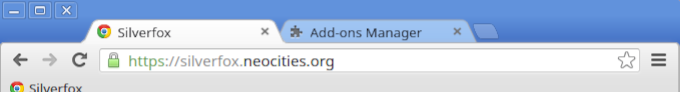
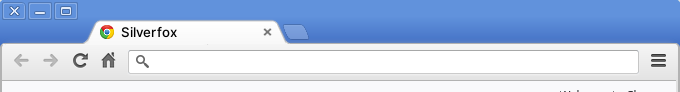
Hotfix for the recent hotfix

diff --git a/theme/chrome/css/UI/titlebuttons.css b/theme/chrome/css/UI/titlebuttons.css
@@ -618,26 +618,26 @@
   }
   
   
-  /* Linux */
+/* Linux */
   
-  @media (-moz-platform: linux) {
+@media (-moz-platform: linux) {
     
-  @supports not (-moz-bool-pref("silverfox.forceWindowsStyling")) {   
+  @supports not (-moz-bool-pref("silverfox.forceWindowsStyling")) {
     .titlebar-buttonbox {
       appearance: none !important; /* Prevents ANY influencing of margins */
       gap: 2px !important;
     }
-    :root:not([sizemode="normal"]) .titlebar-buttonbox {
-      margin-top: -4px !important;
+    :root[sizemode="maximized"] .titlebar-buttonbox {
+      margin-top: -5px !important;
     }
-    :root[sizemode="normal"] .titlebar-buttonbox {
-      margin-top: -35px !important;
+    :root:not([sizemode="maximized"]) .titlebar-buttonbox {
+      margin-top: -36px !important;
     }
     @media not (-moz-gtk-csd-reversed-placement) { .titlebar-buttonbox {
-      margin-right: max(6px, calc(env(-moz-gtk-csd-titlebar-radius) - 1px)) !important;
+      margin-right: max(3px, calc(env(-moz-gtk-csd-titlebar-radius) - 1px)) !important;
     }}
     @media (-moz-gtk-csd-reversed-placement) { .titlebar-buttonbox {
-      margin-left: max(6px, calc(env(-moz-gtk-csd-titlebar-radius) - 2px)) !important;
+      margin-left: max(3px, calc(env(-moz-gtk-csd-titlebar-radius) - 1px)) !important;
     }}
     .titlebar-close,
     .titlebar-restore,
@@ -695,139 +695,139 @@
     }
   }
     
-/* Chrome OS */  
-@supports (-moz-bool-pref("silverfox.beChromeOS")) {
+  /* Chrome OS */
+  @supports (-moz-bool-pref("silverfox.beChromeOS")) {
+    .titlebar-buttonbox {
+      gap: 0 !important;
+    }
+    :root[sizemode="maximized"] .titlebar-buttonbox {
+        margin-top: -8px !important;
+    }
+    :root:not([sizemode="maximized"]) .titlebar-buttonbox {
+        margin-top: -13px !important;
+    }
 
-:root[sizemode="normal"] .titlebar-buttonbox-container {
-    margin-top: 20px !important;
-  }
-  
-  
-  .titlebar-buttonbox {
-    gap: 0 !important;
-  }
-  :root:not([sizemode="normal"]) .titlebar-buttonbox {
-      margin-top: 1px !important;
-  }
+    @media not (-moz-gtk-csd-reversed-placement) { .titlebar-buttonbox {
+      margin-right: 0 !important;
+    }}
+    @media (-moz-gtk-csd-reversed-placement) { .titlebar-buttonbox {
+      margin-left: 0 !important;
+    }}
 
-  @media not (-moz-gtk-csd-reversed-placement) { .titlebar-buttonbox {
-    margin-right: 0 !important;
-  }}
-  @media (-moz-gtk-csd-reversed-placement) { .titlebar-buttonbox {
-    margin-left: 0 !important;
-  }}
-
-  .titlebar-close,
-  .titlebar-restore,
-  .titlebar-min,
-  .titlebar-max {
+    .titlebar-close,
+    .titlebar-min,
+    .titlebar-max {
         height: 35px !important;
-  }
-  .titlebar-close,
-  .titlebar-restore,
-  .titlebar-min,
-  .titlebar-max {
+    }
+    :root[sizemode="maximized"] .titlebar-close,
+    .titlebar-restore,
+    :root[sizemode="maximized"] .titlebar-min {
+        height: 28px !important;
+    }
+    .titlebar-close,
+    .titlebar-restore,
+    .titlebar-min,
+    .titlebar-max {
         min-width: 35px !important;
         max-width: 35px !important;
-  }
+    }
 
-  /* Button borders */
-  :root:not([sizemode="maximized"]) .titlebar-button:not(:last-child) {
-    background-position: left !important;
-    max-width: 37px !important;
-    min-width: 37px !important;
-  }
-  :root:not([sizemode="maximized"]) .titlebar-button:not(:last-child)::before {
-    content: url(../../assets/images/topbar/chromeos/border_right.png) !important;
-    width: 37px !important;
-    height: 28px !important;
-    position: fixed !important;
-    top: 0 !important;
-  }
-  @media (-moz-gtk-csd-reversed-placement) {
+    /* Button borders */
     :root:not([sizemode="maximized"]) .titlebar-button:not(:last-child) {
-      background-position: right !important;
+      background-position: left !important;
+      max-width: 37px !important;
+      min-width: 37px !important;
     }
     :root:not([sizemode="maximized"]) .titlebar-button:not(:last-child)::before {
-      content: url(../../assets/images/topbar/chromeos/border_left.png) !important;
-      margin-left: -3px !important;
+      content: url(../../assets/images/topbar/chromeos/border_right.png) !important;
+      width: 37px !important;
+      position: fixed !important;
+      top: 0 !important;
     }
-  }
+    @media (-moz-gtk-csd-reversed-placement) {
+      :root:not([sizemode="maximized"]) .titlebar-button:not(:last-child) {
+        background-position: right !important;
+      }
+      :root:not([sizemode="maximized"]) .titlebar-button:not(:last-child)::before {
+        content: url(../../assets/images/topbar/chromeos/border_left.png) !important;
+        margin-left: -3px !important;
+      }
+    }
 
-  /* Maximised button-borders are different */
-  @media not (-moz-gtk-csd-reversed-placement) { :root[sizemode="maximized"] .titlebar-button:not(:last-child) {
-      border-right: 1px solid rgba(0, 0, 0, 0.17);
-  }}
-  @media (-moz-gtk-csd-reversed-placement) { :root[sizemode="maximized"] .titlebar-button:not(:last-child) {
-      border-left: 1px solid rgba(0, 0, 0, 0.17);
-  }}
+    /* Maximised button-borders are different */
+    @media not (-moz-gtk-csd-reversed-placement) { :root[sizemode="maximized"] .titlebar-button:not(:last-child) {
+        border-right: 1px solid rgba(0, 0, 0, 0.17);
+    }}
+    @media (-moz-gtk-csd-reversed-placement) { :root[sizemode="maximized"] .titlebar-button:not(:last-child) {
+        border-left: 1px solid rgba(0, 0, 0, 0.17);
+    }}
 
-  .titlebar-close {
-      background: url(../../assets/images/topbar/chromeos/close.png) !important;
-      background-repeat: no-repeat !important;
-  }
-  :root[sizemode="maximized"] .titlebar-close {
-      background: url(../../assets/images/topbar/chromeos/close_maximized.png) !important;
-  }
-  .titlebar-min {
-      background: url(../../assets/images/topbar/chromeos/minimize.png) !important;
-      background-repeat: no-repeat !important;
-  }
-  :root[sizemode="maximized"] .titlebar-min {
-      background: url(../../assets/images/topbar/chromeos/minimize_maximized.png) !important;
-  }
-  .titlebar-max {
-      background: url(../../assets/images/topbar/chromeos/maximize.png) !important;
-      background-repeat: no-repeat !important;
-  }
-  .titlebar-restore {
-      background: url(../../assets/images/topbar/chromeos/restore.png) !important;
-  }
+    .titlebar-close {
+        background: url(../../assets/images/topbar/chromeos/close.png) !important;
+        background-repeat: no-repeat !important;
+    }
+    :root[sizemode="maximized"] .titlebar-close {
+        background: url(../../assets/images/topbar/chromeos/close_maximized.png) !important;
+    }
+    .titlebar-min {
+        background: url(../../assets/images/topbar/chromeos/minimize.png) !important;
+        background-repeat: no-repeat !important;
+    }
+    :root[sizemode="maximized"] .titlebar-min {
+        background: url(../../assets/images/topbar/chromeos/minimize_maximized.png) !important;
+    }
+    .titlebar-max {
+        background: url(../../assets/images/topbar/chromeos/maximize.png) !important;
+        background-repeat: no-repeat !important;
+    }
+    .titlebar-restore {
+        background: url(../../assets/images/topbar/chromeos/restore.png) !important;
+    }
 
-  /* Hovers */
-  .titlebar-close:hover {
-      background: url(../../assets/images/topbar/chromeos/close_hover.png) !important;
-      background-repeat: no-repeat !important;
-  }
-  :root[sizemode="maximized"] .titlebar-close:hover {
-      background: url(../../assets/images/topbar/chromeos/close_maximized_hover.png) !important;
-  }
-  .titlebar-min:hover {
-      background: url(../../assets/images/topbar/chromeos/minimize_hover.png) !important;
-      background-repeat: no-repeat !important;
-  }
-  :root[sizemode="maximized"] .titlebar-min:hover {
-      background: url(../../assets/images/topbar/chromeos/minimize_maximized_hover.png) !important;
-  }
-  .titlebar-max:hover {
-      background: url(../../assets/images/topbar/chromeos/maximize_hover.png) !important;
-      background-repeat: no-repeat !important;
-  }
-  .titlebar-restore:hover {
-      background: url(../../assets/images/topbar/chromeos/restore_hover.png) !important;
-  }
+    /* Hovers */
+    .titlebar-close:hover {
+        background: url(../../assets/images/topbar/chromeos/close_hover.png) !important;
+        background-repeat: no-repeat !important;
+    }
+    :root[sizemode="maximized"] .titlebar-close:hover {
+        background: url(../../assets/images/topbar/chromeos/close_maximized_hover.png) !important;
+    }
+    .titlebar-min:hover {
+        background: url(../../assets/images/topbar/chromeos/minimize_hover.png) !important;
+        background-repeat: no-repeat !important;
+    }
+    :root[sizemode="maximized"] .titlebar-min:hover {
+        background: url(../../assets/images/topbar/chromeos/minimize_maximized_hover.png) !important;
+    }
+    .titlebar-max:hover {
+        background: url(../../assets/images/topbar/chromeos/maximize_hover.png) !important;
+        background-repeat: no-repeat !important;
+    }
+    .titlebar-restore:hover {
+        background: url(../../assets/images/topbar/chromeos/restore_hover.png) !important;
+    }
 
-  /* Pressed */
-  .titlebar-close:hover:active {
-      background: url(../../assets/images/topbar/chromeos/close_pressed.png) !important;
-      background-repeat: no-repeat !important;
-  }
-  :root[sizemode="maximized"] .titlebar-close:hover:active {
-      background: url(../../assets/images/topbar/chromeos/close_maximized_pressed.png) !important;
-  }
-  .titlebar-min:hover:active {
-      background: url(../../assets/images/topbar/chromeos/minimize_pressed.png) !important;
-      background-repeat: no-repeat !important;
-  }
-  :root[sizemode="maximized"] .titlebar-min:hover:active {
-      background: url(../../assets/images/topbar/chromeos/minimize_maximized_pressed.png) !important;
-  }
-  .titlebar-max:hover:active {
-      background: url(../../assets/images/topbar/chromeos/maximize_pressed.png) !important;
-      background-repeat: no-repeat !important;
-  }
-  .titlebar-restore:hover:active {
-      background: url(../../assets/images/topbar/chromeos/restore_pressed.png) !important;
-  }
+    /* Pressed */
+    .titlebar-close:hover:active {
+        background: url(../../assets/images/topbar/chromeos/close_pressed.png) !important;
+        background-repeat: no-repeat !important;
+    }
+    :root[sizemode="maximized"] .titlebar-close:hover:active {
+        background: url(../../assets/images/topbar/chromeos/close_maximized_pressed.png) !important;
+    }
+    .titlebar-min:hover:active {
+        background: url(../../assets/images/topbar/chromeos/minimize_pressed.png) !important;
+        background-repeat: no-repeat !important;
+    }
+    :root[sizemode="maximized"] .titlebar-min:hover:active {
+        background: url(../../assets/images/topbar/chromeos/minimize_maximized_pressed.png) !important;
+    }
+    .titlebar-max:hover:active {
+        background: url(../../assets/images/topbar/chromeos/maximize_pressed.png) !important;
+        background-repeat: no-repeat !important;
+    }
+    .titlebar-restore:hover:active {
+        background: url(../../assets/images/topbar/chromeos/restore_pressed.png) !important;
+    }
   }
 }

diff --git a/theme/chrome/css/UI/tabstoolbar.css b/theme/chrome/css/UI/tabstoolbar.css
@@ -12,26 +12,33 @@
 
 /* Remove the gap for Linux if native titlebars are enabled */
 @media (-moz-platform: linux) {
-:root:not([tabsintitlebar="true"]) #TabsToolbar {
-  margin-top: -4px !important;
-}
-  
-@supports (-moz-bool-pref("silverfox.beChromeOS")) {
-  :root:not([sizemode="maximized"]) #TabsToolbar {
-    margin-top: 7px !important;
+  :root:not([tabsintitlebar="true"]) #TabsToolbar {
+    margin-top: -4px !important;
   }
-  :root[sizemode="maximized"] #TabsToolbar {
-    margin-top: -6px !important;
+  /* Additionally, enforce Chrome OS's larger gap */
+  @supports (-moz-bool-pref("silverfox.beChromeOS")) {
+    :root[sizemode="normal"] #TabsToolbar {
+      margin-top: 6px !important;
+    }
   }
 }
-} 
-
-
 
 /* Remove the gap when Firefox is fullscreen */
 :root:not([sizemode="normal"]) #TabsToolbar {
   margin-top: -5px;
   margin-bottom: 0px !important;
+}
+/* ...unless we're on Linux. */
+@media (-moz-platform: linux) {
+  :root:not([sizemode="normal"]) #TabsToolbar {
+    margin-top: -4px !important;
+  }
+  /* Chrome OS has a larger gap */
+  @supports (-moz-bool-pref("silverfox.beChromeOS")) {
+    :root:not([sizemode="normal"]) #TabsToolbar {
+      margin-top: 0 !important;
+    }
+  }
 }
 
 /* Remove All Tabs  */
